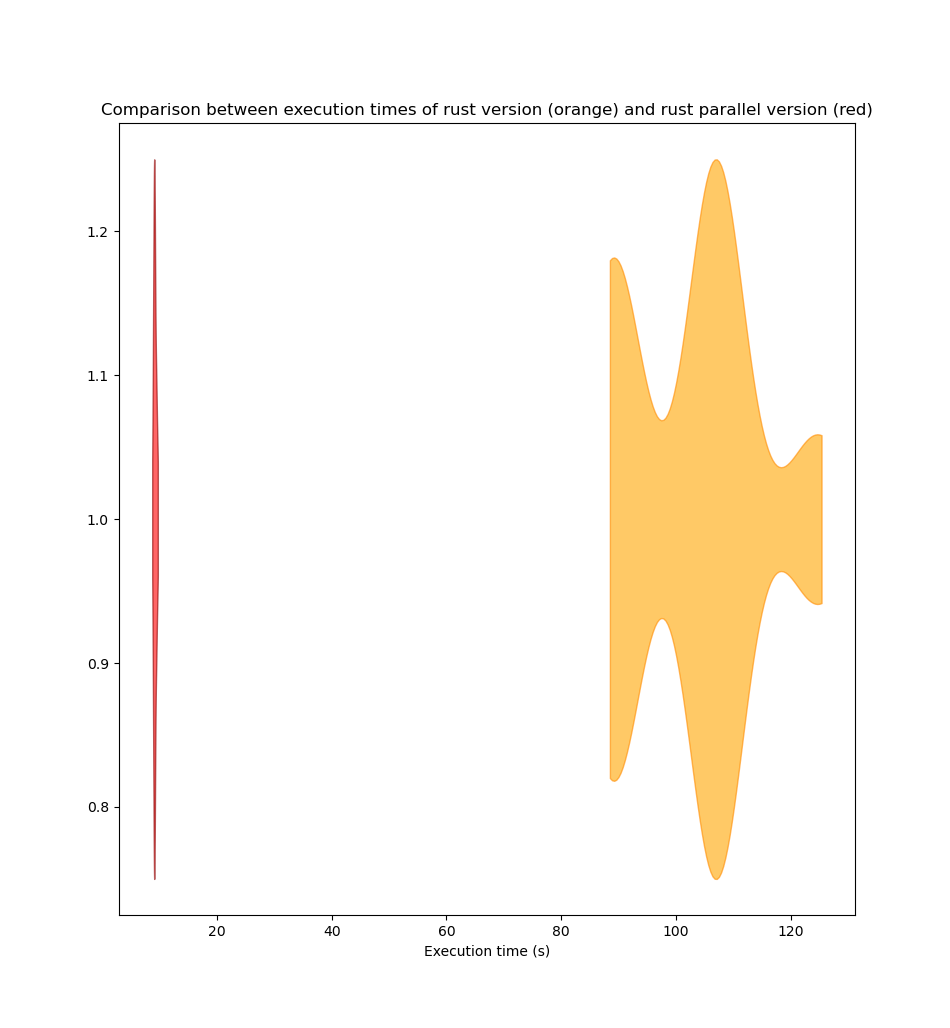
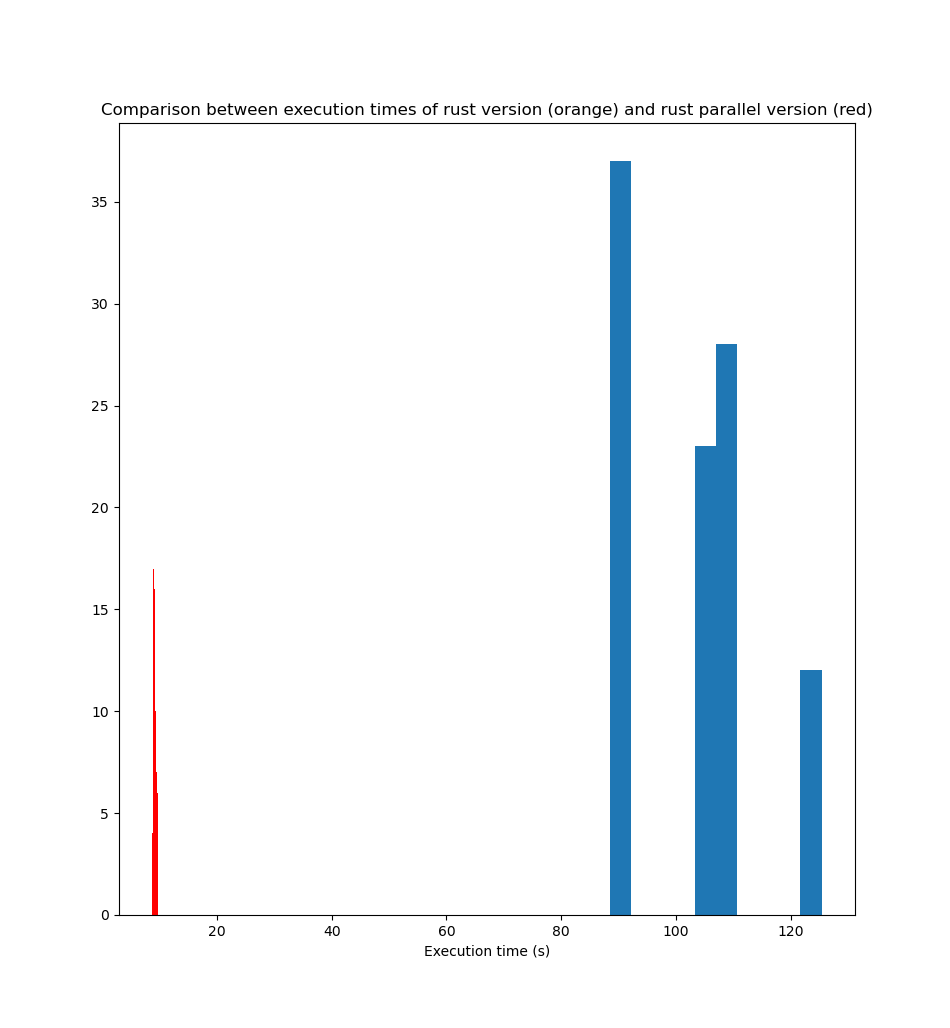
Updated parallel plot

diff --git a/results/comparison_script.py b/results/comparison_script.py
@@ -4,18 +4,8 @@ def main():
     parallel = pull_data_from_json("./parallel.json")
     rust_data = pull_data_from_json("./rust_results.json")
     fig, ax = plt.subplots(figsize=(10, 100))
-    vp1 = ax.violinplot(parallel["times"], positions=[1], vert=False,
-                         showextrema=False)
-    for body in vp1['bodies']:
-            body.set_facecolor('red')
-            body.set_edgecolor('darkred')
-            body.set_alpha(0.6) # transparency helps when overlapping
-    vp2 = ax.violinplot(rust_data["times"], positions=[1], vert=False,
-                         showextrema=False)
-    for body in vp2['bodies']:
-        body.set_facecolor('orange')
-        body.set_edgecolor('darkorange')
-        body.set_alpha(0.6)
+    b1 = ax.hist(parallel["times"], color="red")
+    b2 = ax.hist(rust_data["times"])
 
     ax.autoscale(enable=True, axis='both', tight=False)
     ax.set_title("Comparison between execution times of rust version (orange) and rust parallel version (red)")
